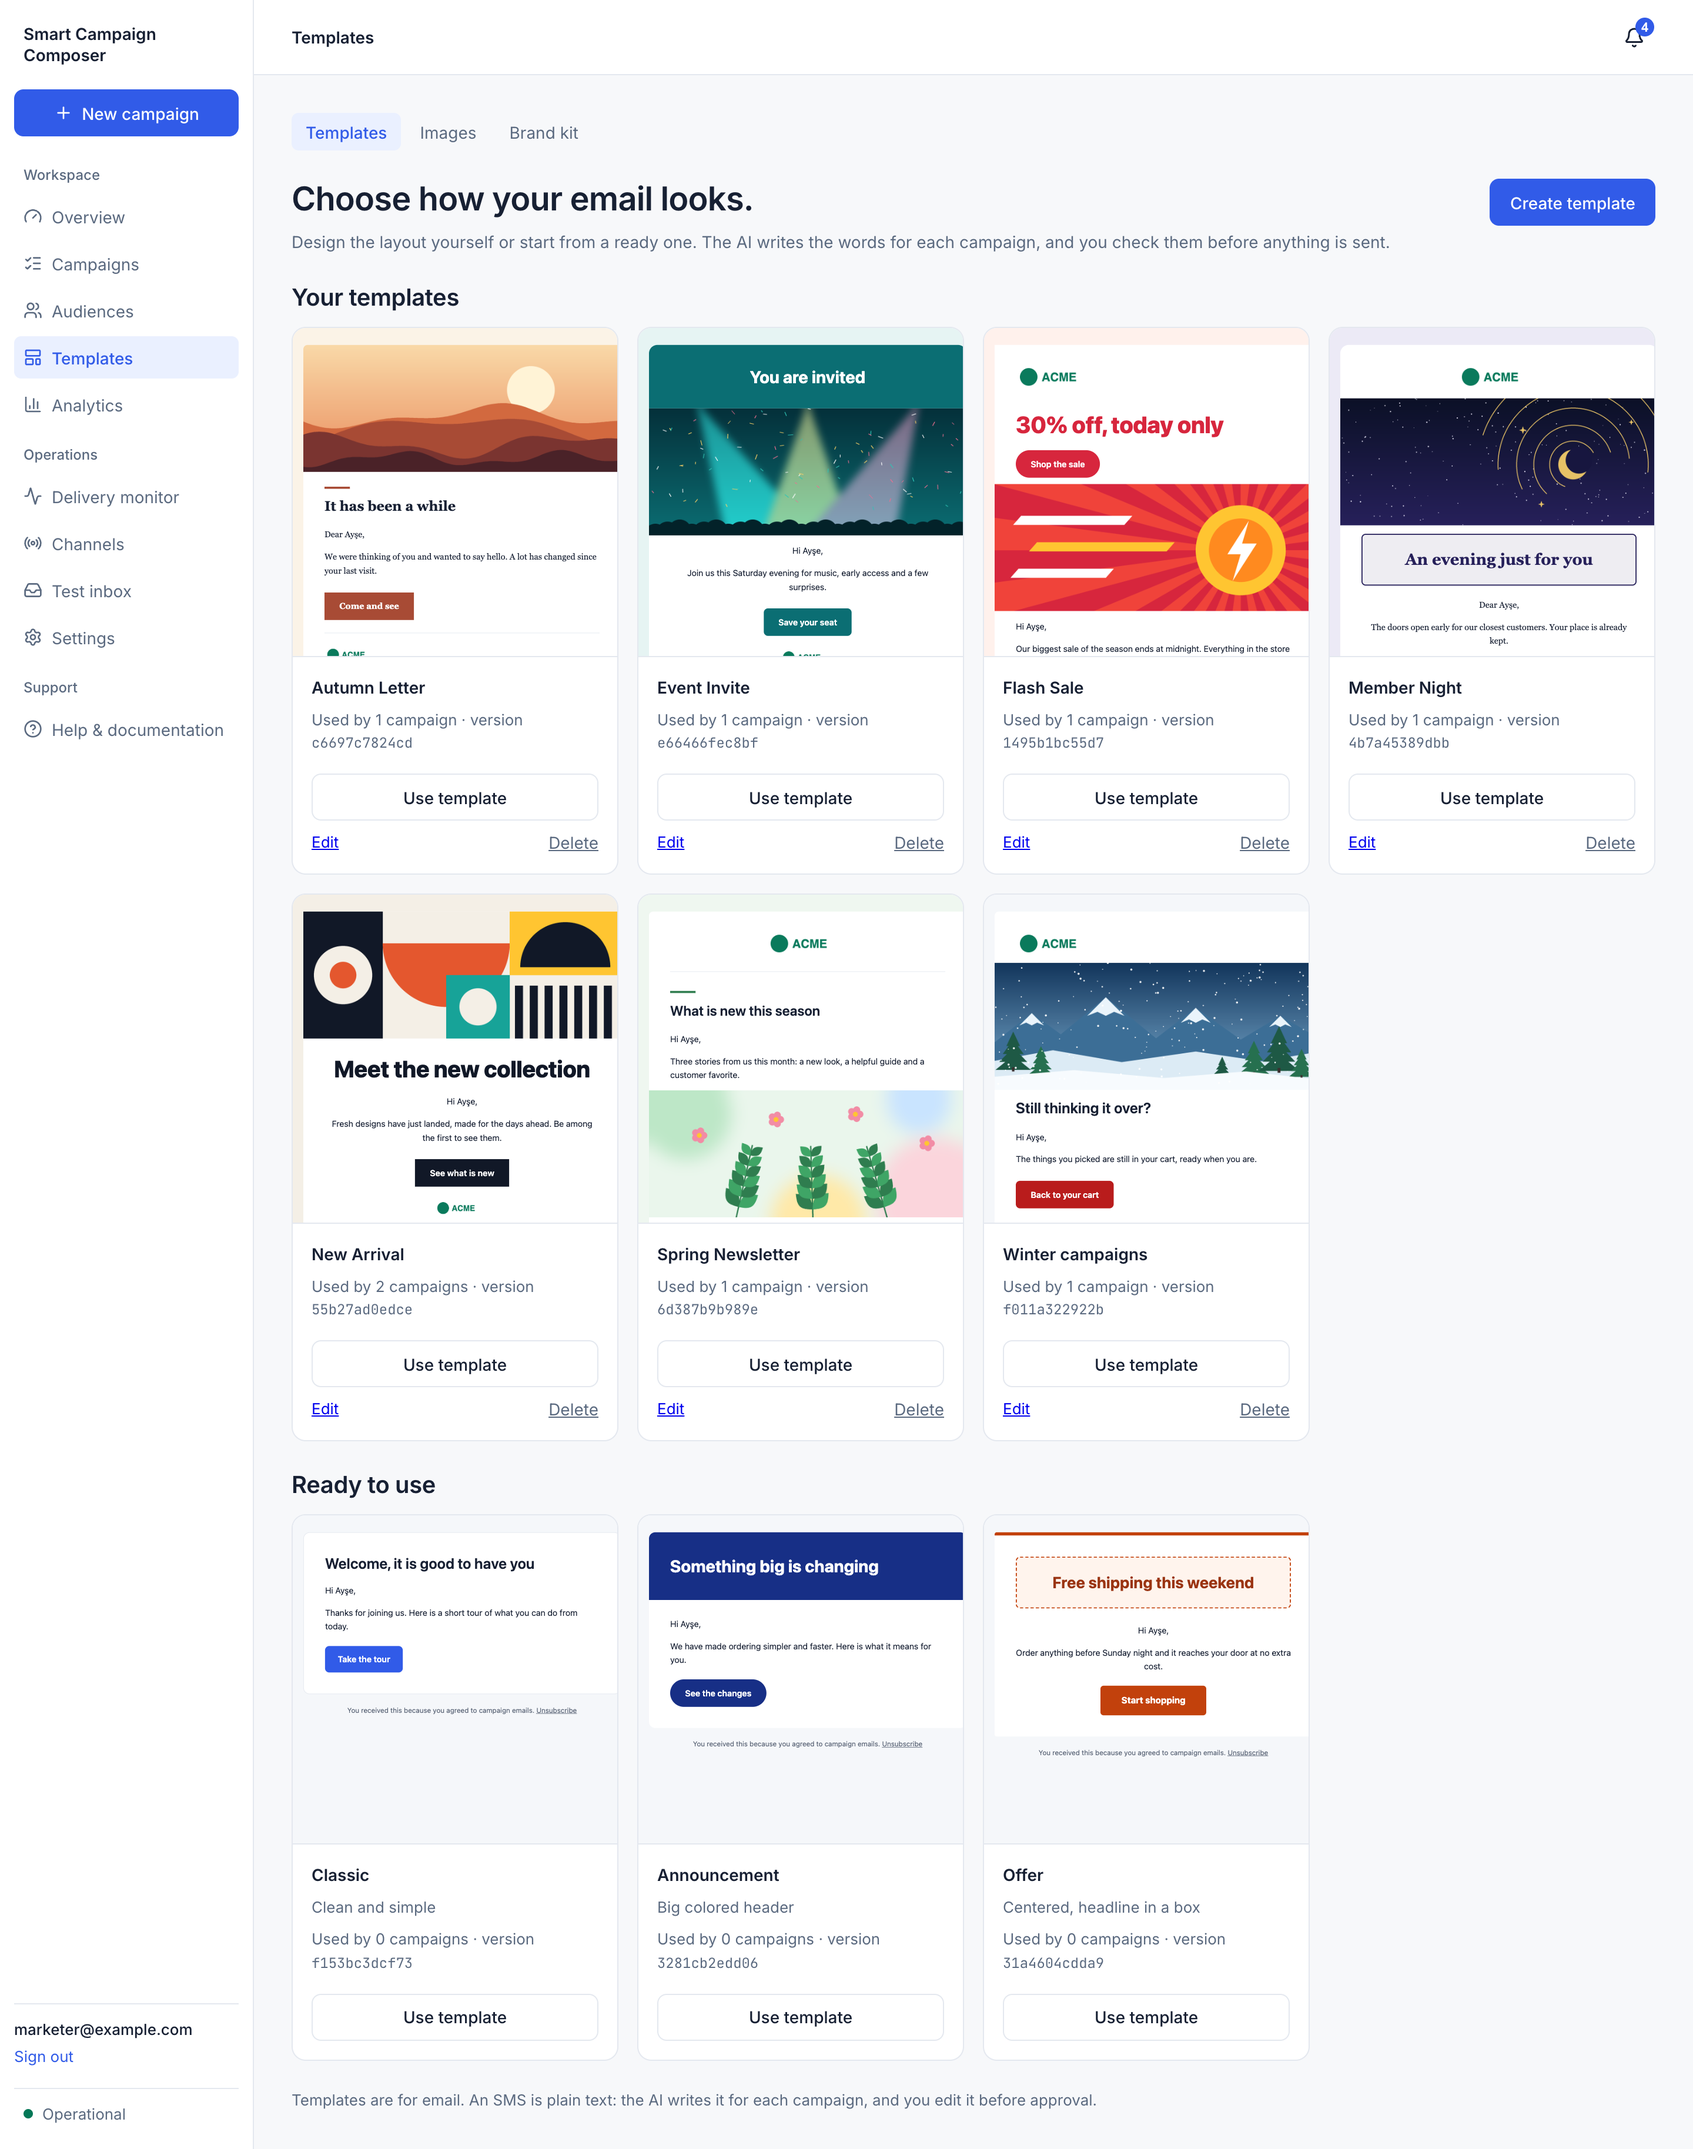
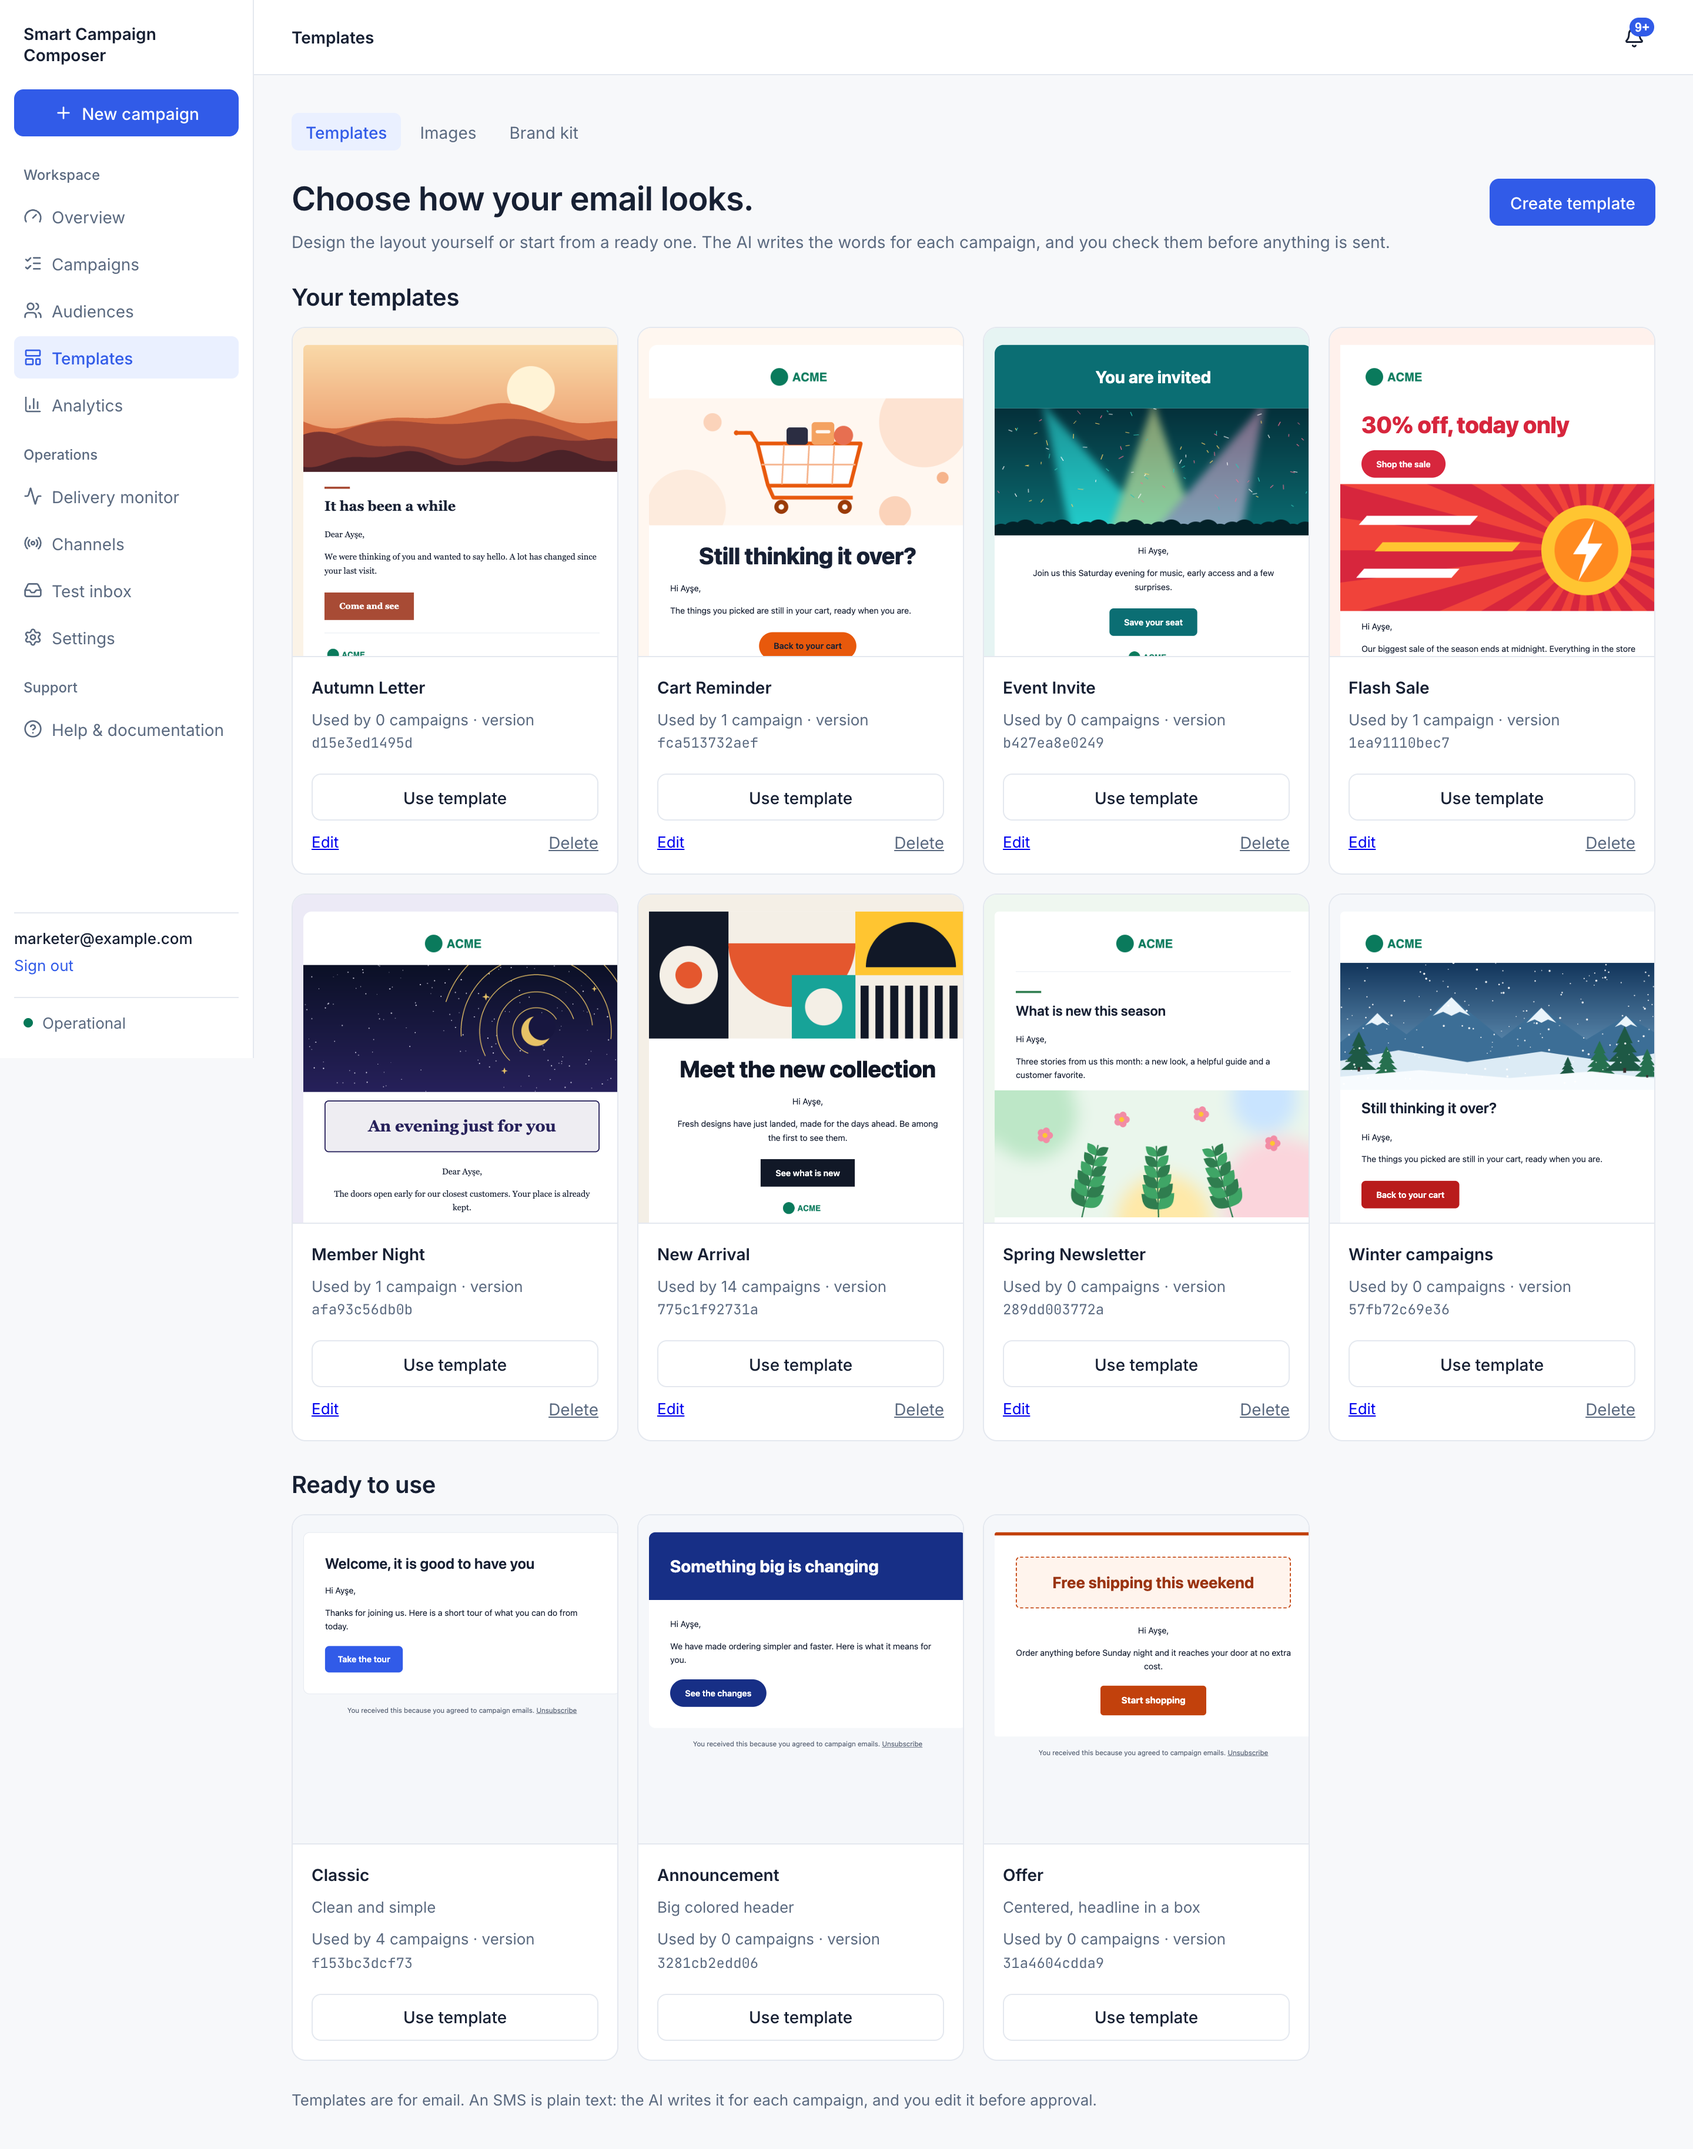
feat: ship the Cart Reminder template with new installations

Changed region(s): [[0.1562, 0.4054, 1.0, 0.6236], [0.375, 0.1247, 1.0, 0.343], [0.0312, 0.9354, 0.0625, 0.9666]]

diff --git a/internal/starter/starter.go b/internal/starter/starter.go
@@ -62,6 +62,16 @@ func Designs() []content.Design {
 			},
 		},
 		{
+			Name: "Cart Reminder", Accent: "#E8590C", Page: "#FFF7F0", Button: "pill", Corners: 16, Font: "sans", Footer: footer,
+			Blocks: []content.Block{
+				logo(alignCenter, 30),
+				picture("cart-reminder.png", "A shopping cart with items waiting in it"),
+				slot(content.SlotHeadline, blockHeading, alignCenter, styleDisplay),
+				slot(content.SlotBody, blockText, alignLeft, ""),
+				slot(content.SlotCTA, blockButton, alignCenter, ""),
+			},
+		},
+		{
 			Name: "New Arrival", Accent: "#111827", Page: "#F4EFE6", Button: "square", Corners: 0, Font: "sans", Footer: footer,
 			Blocks: []content.Block{
 				picture("new-arrival.png", "Bold geometric shapes in black, orange, teal and yellow"),

diff --git a/README.md b/README.md
@@ -20,9 +20,9 @@ Every screenshot below is a real run: an OpenAI model wrote the audiences and me
 
 ### 1. Set up how your email looks
 
-A new installation opens with seven ready templates, their images and an example brand kit. You can use them as they are, change them or delete them.
+A new installation opens with eight ready templates, their images and an example brand kit. You can use them as they are, change them or delete them.
 
-![Templates page: seven ready templates with their images, each with its version and how many campaigns use it](docs/screenshots/templates.png)
+![Templates page: eight ready templates with their images, each with its version and how many campaigns use it](docs/screenshots/templates.png)
 
 Templates are built from blocks in a three-panel editor: logo, image, heading, text, button and divider, with a live preview the backend draws for computer and phone. Select a block to change it. The AI fills the headline, message and button for each campaign; layout, images and links stay as you set them. A template stores no markup, so it cannot add a script or remove the unsubscribe link.
 
@@ -130,7 +130,7 @@ The command returns when every service is ready. The first run downloads the bas
 On first start, setup applies migrations and loads:
 
 - 6,000 fake customers reading Turkish, English, German, French or Spanish, with event times relative to that moment
-- seven ready email templates with their images, and an example brand kit. They are ordinary templates you can edit or delete, and a deleted one stays deleted.
+- eight ready email templates with their images, and an example brand kit. They are ordinary templates you can edit or delete, and a deleted one stays deleted.
 
 ### 4. Check that it runs
 

diff --git a/DECISIONS.md b/DECISIONS.md
@@ -478,7 +478,7 @@ We left the rest out for now. The API binary is 78 MB and the worker 51 MB, and 
 
 ## Starter templates load once and never overwrite
 
-Setup adds seven templates, their images and an example brand kit, so a new installation can show the Template Studio without anyone uploading first. The images are embedded in the setup binary and go through the same processing and store as an upload.
+Setup adds eight templates, their images and an example brand kit, so a new installation can show the Template Studio without anyone uploading first. The images are embedded in the setup binary and go through the same processing and store as an upload.
 
 A row in `starter_content` records that this happened. Without it, every restart would either bring back a template someone deleted or need to tell "deleted" from "never added". A template with the same name or an existing brand kit is kept as it is, which also makes the load safe on an installation that already has its own.
 
